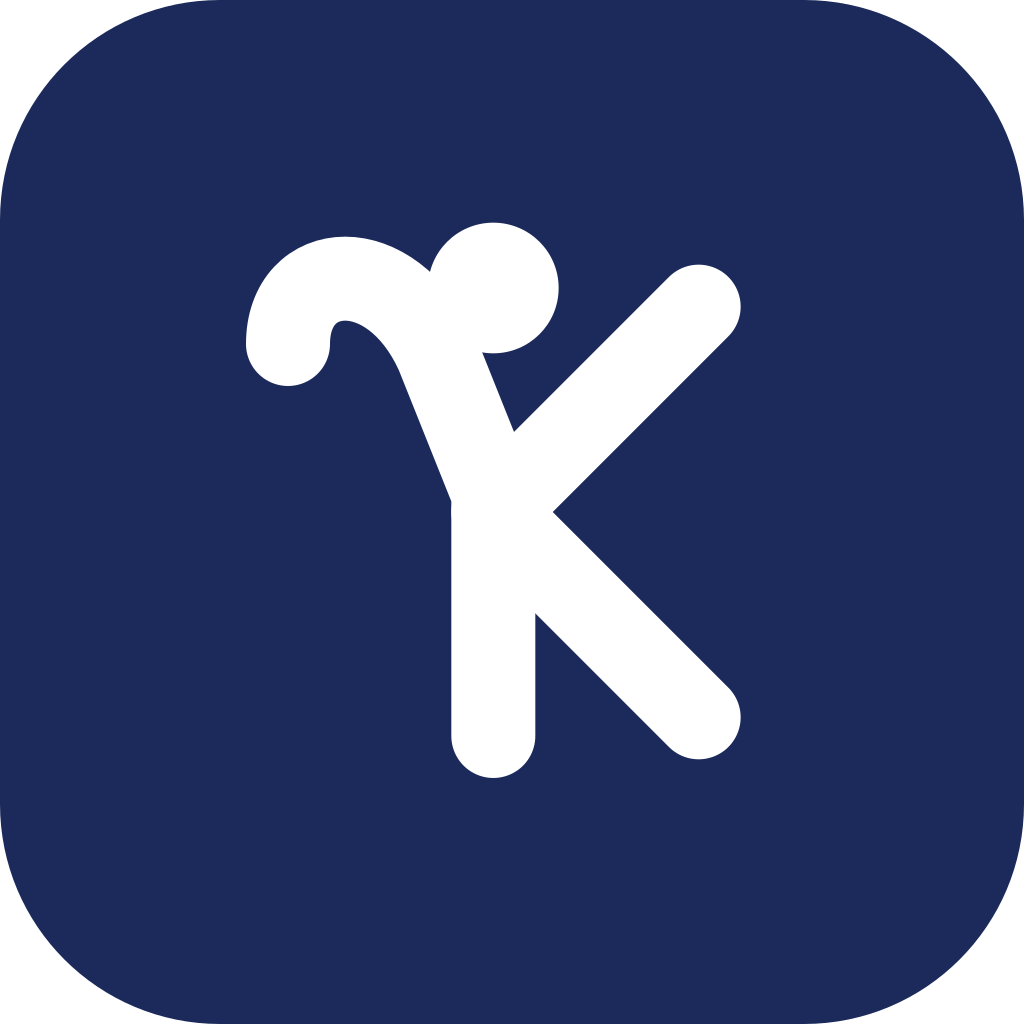
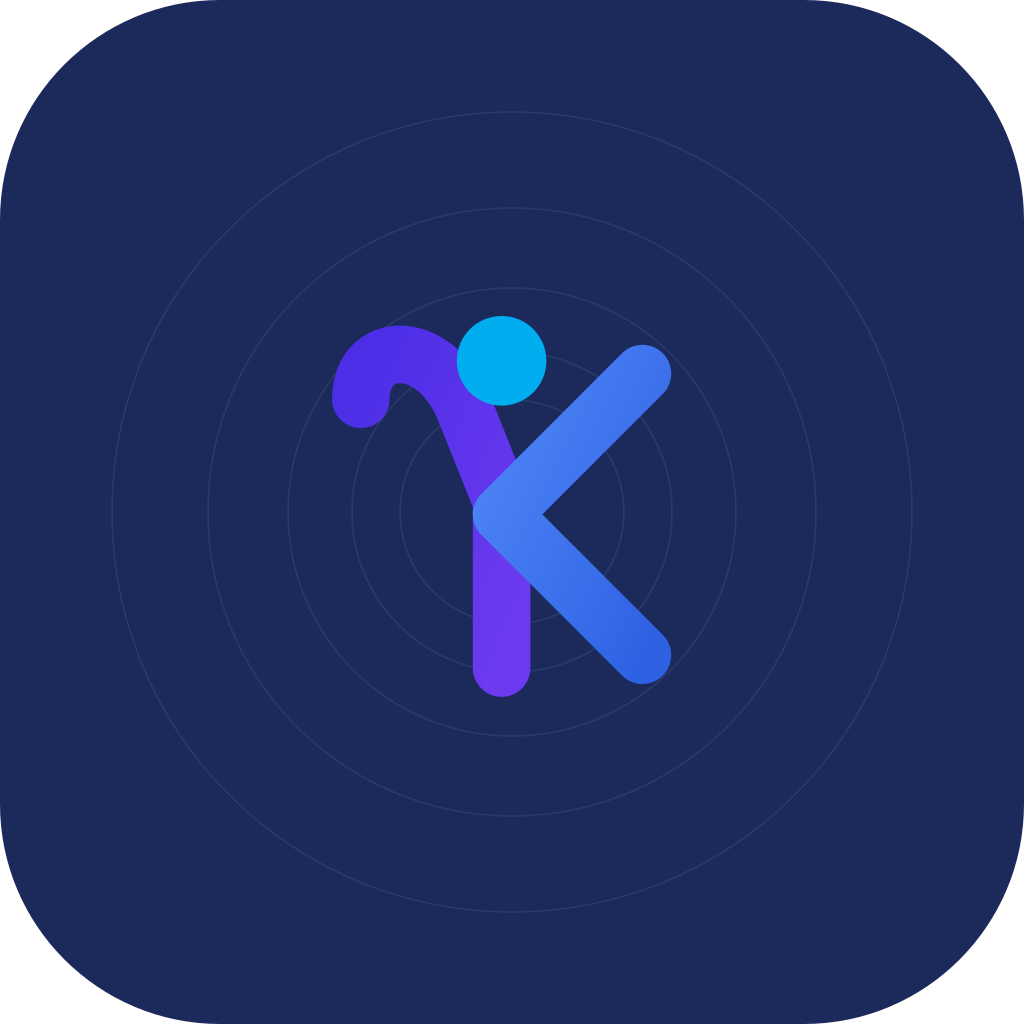
fix: correct service count and add the dark brand mark

Changed region(s): [[0.2188, 0.2188, 0.75, 0.7812]]

diff --git a/tests/brand.test.js b/tests/brand.test.js
@@ -14,10 +14,12 @@ describe('Kayna brand assets', () => {
     expect(read('brand/kayna-logo-inverse.svg')).toContain('Kayna')
   })
 
-  it('ships the compact and public logo variants', () => {
+  it('ships the compact, public, and dark-mark logo variants', () => {
     expect(exists('brand/kayna-logo-compact.svg')).toBe(true)
     expect(exists('public/brand/kayna-logo.svg')).toBe(true)
     expect(exists('public/brand/kayna-logo-compact.svg')).toBe(true)
+    expect(read('brand/kayna-mark-dark.svg')).toContain('#1B2A5B')
+    expect(exists('public/brand/kayna-mark-dark.svg')).toBe(true)
   })
 
   it('uses the package name and no old Sol brand files', () => {

diff --git a/src/pages/Services.vue b/src/pages/Services.vue
@@ -18,7 +18,7 @@ onMounted(() => {
     <PageHeader
       eyebrow="Services"
       title="Technology solutions for businesses ready to grow."
-      lead="Six services that work on their own or together. Most engagements start with one process that keeps costing your team time, then grow from there."
+      lead="Seven services that work on their own or together. Most engagements start with one process that keeps costing your team time, then grow from there."
       :image="img('hero-consultation')"
     />
 

diff --git a/tests/services.test.js b/tests/services.test.js
@@ -12,6 +12,11 @@ describe('Services page', () => {
     expect(headings[0].text()).toBe('Technology solutions for businesses ready to grow.')
   })
 
+  it('describes the current number of services', () => {
+    expect(wrapper.text()).toContain('Seven services')
+    expect(wrapper.text()).not.toContain('Six services')
+  })
+
   it('renders a detail section for every service', () => {
     const articles = wrapper.findAll('main article')
     expect(articles).toHaveLength(services.length)

diff --git a/brand/README.md b/brand/README.md
@@ -13,12 +13,14 @@ The SVGs embed the Manrope variable font so the wordmark renders accurately with
 | `kayna-logo-inverse.svg` | Lockup with white lettering for navy or other dark backgrounds. |
 | `kayna-mark.svg` | Mark only, on a transparent background. |
 | `kayna-mark-inverse.svg` | Mark only in white, for dark backgrounds. |
-| `kayna-avatar.svg` | Square social avatar: navy field with the white mark. |
+| `kayna-mark-dark.svg` | Wide navy field with concentric rings and the gradient mark. |
+| `kayna-avatar.svg` | Square social avatar: navy field with the gradient mark and rings. |
 | `png/kayna-logo-1600.png` | 1600 px transparent PNG of the primary lockup. |
 | `png/kayna-logo-inverse-1600.png` | 1600 px transparent PNG of the inverse lockup. |
 | `png/kayna-mark-512.png` | 512 px mark. |
 | `png/kayna-mark-1024.png` | 1024 px mark. |
 | `png/kayna-mark-inverse-1024.png` | 1024 px inverse mark. |
+| `png/kayna-mark-dark-1600.png` | 1600 px navy field with rings and the gradient mark. |
 | `png/kayna-avatar-1024.png` | 1024 px social avatar. |
 
 Regenerate every asset with `npm run brand`. The script also writes the site favicon, public logo variants, and the Open Graph image.
